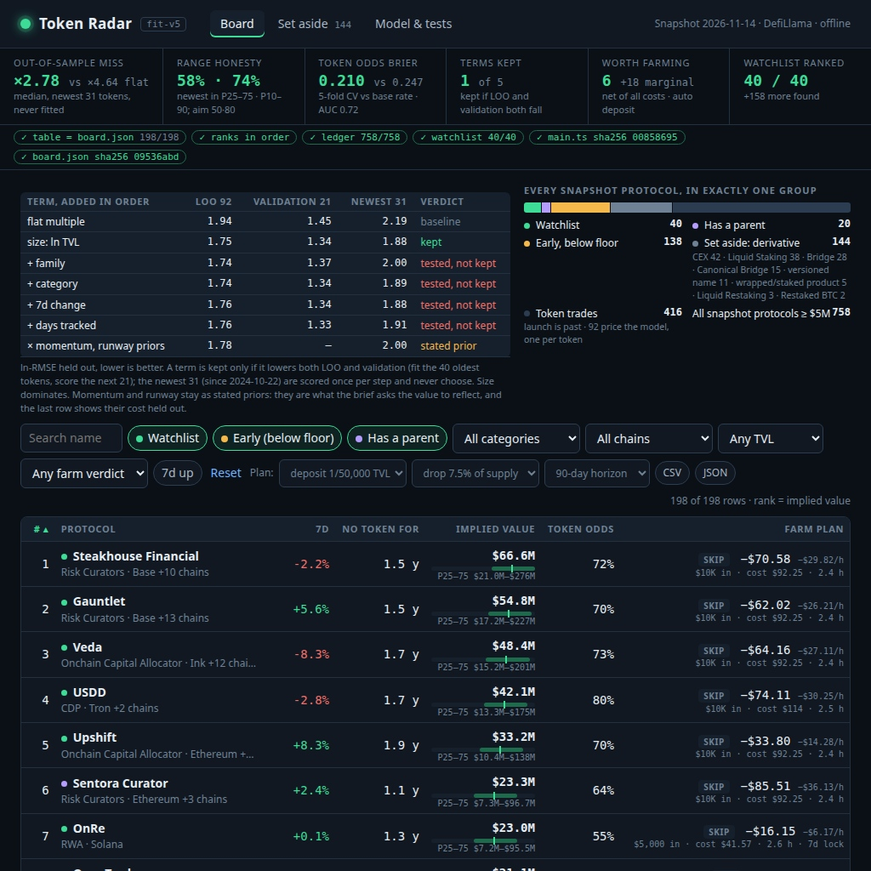
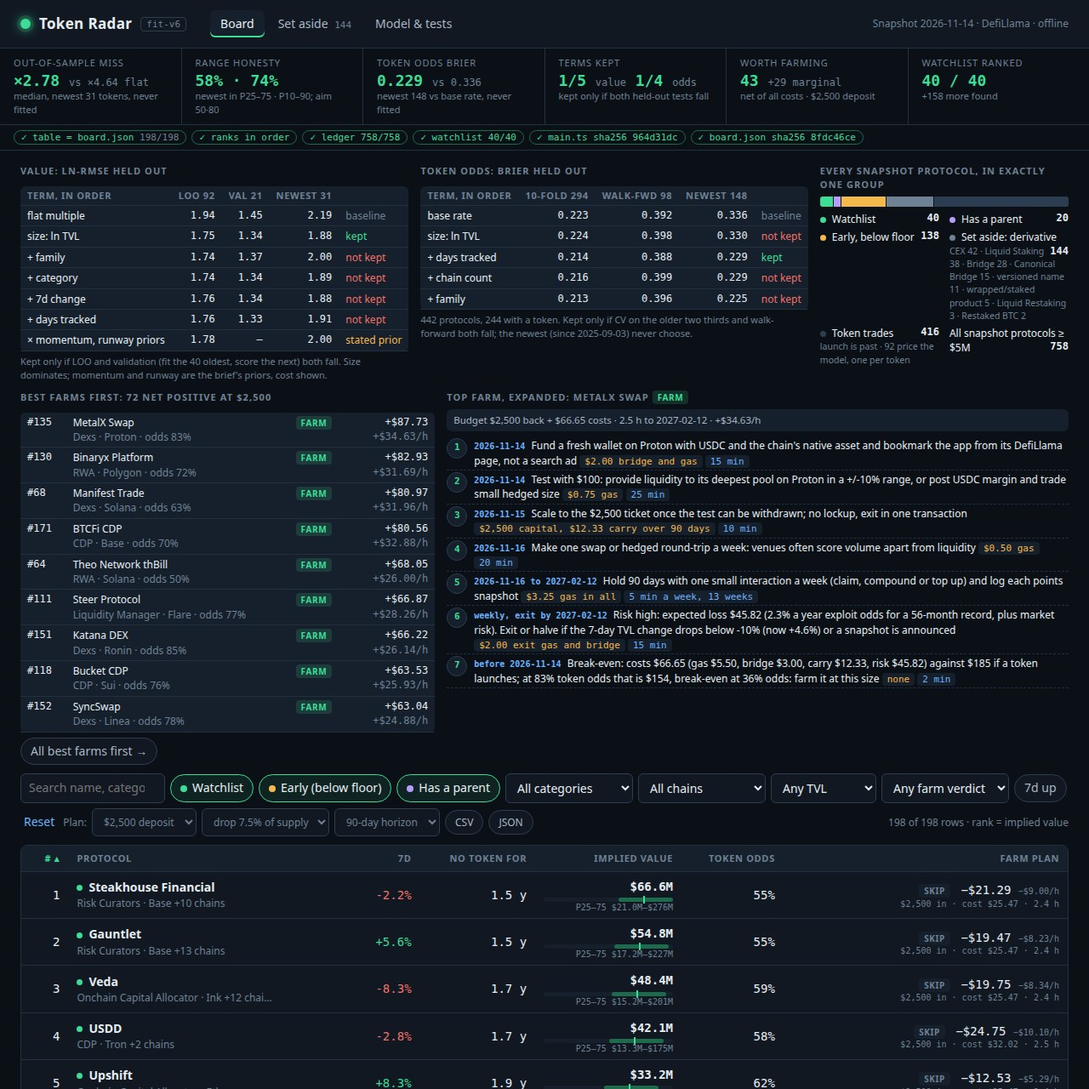
fit-v6: token odds chosen term by term (10-fold + walk-forward Brier), $2,500 default deposit, best farms and an expanded plan on the cover

diff --git a/dashboard/app.js b/dashboard/app.js
@@ -1,7 +1,5 @@
-// Token Radar page: renders window.RADAR (written by main.ts from engine.js) as three views, the board
-// with its cover, filters, plan controls and a detail panel, the set-aside list, and the model with its
-// held-out tests. It re-runs RadarEngine.build on window.SNAPSHOT here and reports whether rows match.
-// State lives in the hash (#/board?v=farm&sel=slug) so every view can be linked and captured.
+// Token Radar page: renders window.RADAR (main.ts ran engine.js) as the board with cover, filters, plan and
+// detail, the set-aside list and the model; re-runs engine.js here to check rows. State lives in the hash.
 (function () {
   'use strict';
   var R = window.RADAR, app = document.getElementById('app');
@@ -59,9 +57,9 @@
     var k = [
       ['Out-of-sample miss', '×' + m.test.median_x.toFixed(2) + ' <small>vs ×' + fl.test.median_x.toFixed(2) + ' flat</small>', 'median, newest ' + T.split.test + ' tokens, never fitted', 1],
       ['Range honesty', Math.round(cv.p25_p75 * 100) + '% · ' + Math.round(cv.p10_p90 * 100) + '%', 'newest in P25–75 · P10–90; aim 50·80', Math.abs(cv.p25_p75 - 0.5) < 0.15 && Math.abs(cv.p10_p90 - 0.8) < 0.1],
-      ['Token odds Brier', O.brier.toFixed(3) + ' <small>vs ' + O.base_brier.toFixed(3) + '</small>', O.folds + '-fold CV vs base rate · AUC ' + O.auc.toFixed(2), O.brier < O.base_brier],
-      ['Terms kept', T.kept + ' <small>of ' + T.tried + '</small>', 'kept if LOO and validation both fall', 1],
-      ['Worth farming', n.farm + ' <small>+' + n.marginal + ' marginal</small>', 'net of all costs · ' + (st.dep ? money(st.dep) : 'auto') + ' deposit', n.farm > 0],
+      ['Token odds Brier', O.shipped.test.toFixed(3) + ' <small>vs ' + O.steps[0].test.toFixed(3) + '</small>', 'newest ' + O.split.test + ' vs base rate, never fitted', O.shipped.test < O.steps[0].test],
+      ['Terms kept', T.kept + '/' + T.tried + ' <small>value</small> ' + O.kept.length + '/' + (O.steps.length - 1) + ' <small>odds</small>', 'kept only if both held-out tests fall', 1],
+      ['Worth farming', n.farm + ' <small>+' + n.marginal + ' marginal</small>', 'net of all costs · ' + money(R.rows[0].plan.ticket) + ' deposit', n.farm > 0],
       ['Watchlist ranked', C.watch_covered + ' / ' + C.watch, '+' + (C.board - C.watch_covered) + ' more found', C.watch_covered === C.watch],
     ];
     var ch = [['table = board.json', check ? check.ok + '/' + C.board : '…', check && check.ok === C.board],
@@ -78,19 +76,33 @@
     return [['Watchlist', c('watch'), 'var(--sig)'], ['Has a parent', c('parented'), 'var(--violet)'], ['Early, below floor', c('early'), 'var(--amber)'],
       ['Set aside: derivative', C.set_aside, 'var(--ink-3)'], ['Token trades', C.live, 'var(--line-2)']];
   }
-  function steps() {
-    var f = function (s) { return s ? s.rmse.toFixed(2) : '–'; }, V = { baseline: 'baseline', stated: 'stated prior', true: 'kept', false: 'tested, not kept' };
-    return '<table class="mini st"><thead><tr><th>Term, added in order</th><th class="r">LOO ' + C.comps + '</th><th class="r">Validation ' + T.split.val + '</th><th class="r">Newest ' + T.split.test + '</th><th>Verdict</th></tr></thead><tbody>' +
-      T.steps.map(function (s) { return '<tr><td>' + esc(s.term) + '</td><td class="r num">' + f(s.loo) + '</td><td class="r num">' + f(s.val) + '</td><td class="r num">' + f(s.test) + '</td><td class="k-' + s.kept + '">' + V[s.kept] + '</td></tr>'; }).join('') +
-      '</tbody></table><p class="note">ln-RMSE held out, lower is better. A term is kept only if it lowers both LOO and validation (fit the ' + T.split.fit + ' oldest tokens, score the next ' + T.split.val + '); the newest ' + T.split.test + ' (since ' + T.split.test_from + ') are scored once per step and never choose. Size dominates. Momentum and runway stay as stated priors: they are what the brief asks the value to reflect, and the last row shows their cost held out.</p>';
+  function steps(S, k, h, dp) {
+    var V = { baseline: 'baseline', stated: 'stated prior', true: 'kept', false: 'not kept' }, f = function (v) { return v == null ? '–' : (v.rmse || v).toFixed(dp); };
+    return '<table class="mini st"><thead><tr><th>Term, in order</th>' + h.map(function (x) { return '<th class="r">' + x + '</th>'; }).join('') + '<th></th></tr></thead><tbody>' +
+      S.map(function (s) { return '<tr><td>' + esc(s.term) + '</td>' + k.map(function (x) { return '<td class="r num">' + f(s[x]) + '</td>'; }).join('') + '<td class="k-' + s.kept + '">' + V[s.kept] + '</td></tr>'; }).join('') + '</tbody></table>';
+  }
+  function tests() {
+    return '<div><h3>Value: ln-RMSE held out</h3>' + steps(T.steps, ['loo', 'val', 'test'], ['LOO ' + C.comps, 'Val ' + T.split.val, 'Newest ' + T.split.test], 2) +
+      '<p class="note">Kept only if LOO and validation (fit the ' + T.split.fit + ' oldest, score the next) both fall. Size dominates; momentum and runway are the brief\'s priors, cost shown.</p></div>' +
+      '<div><h3>Token odds: Brier held out</h3>' + steps(O.steps, ['cv', 'val', 'test'], [O.folds + '-fold ' + O.split.train, 'Walk-fwd ' + O.split.val, 'Newest ' + O.split.test], 3) +
+      '<p class="note">' + O.n + ' protocols, ' + O.with_token + ' with a token. Kept only if CV on the older two thirds and walk-forward both fall; the newest (since ' + O.split.test_from + ') never choose.</p></div>';
+  }
+  function best() { return R.rows.filter(function (r) { return r.plan.net > 0; }).sort(function (a, b) { return b.plan.net - a.plan.net; }); }
+  function plan(r) {
+    var p = r.plan;
+    return '<div class="budget">Budget ' + money(p.ticket) + ' back + ' + money(p.costs.total) + ' costs · ' + p.hours.toFixed(1) + ' h to ' + p.end + ' · ' + signed(p.net / p.hours) + '/h</div>' +
+      '<ol class="steps">' + p.steps.map(function (s) { return '<li><div><b class="when">' + esc(s.when) + '</b> ' + esc(s.do) + ' <span class="tag c">' + esc(s.cost) + '</span> <span class="tag t">' + esc(s.time) + '</span></div></li>'; }).join('') + '</ol>';
   }
   function cover() {
     var L = ledger(), tot = C.protocols, why = {};
     R.set_aside.forEach(function (r) { var k = r.reason.replace(/^category /, ''); why[k] = (why[k] || 0) + 1; });
-    return '<div class="cover"><div>' + steps() + '</div><div><h3>Every snapshot protocol, in exactly one group</h3><div class="led">' +
+    var B = best(), t = B[0];
+    return '<div class="cover">' + tests() + '<div><h3>Every snapshot protocol, in exactly one group</h3><div class="led">' +
       L.map(function (g) { return '<span style="flex:' + g[1] + ';background:' + g[2] + '"></span>'; }).join('') + '</div><div class="lg">' +
       L.map(function (g, i) { return '<div><i class="cd" style="background:' + g[2] + '"></i>' + g[0] + ' <b>' + g[1] + '</b>' + (i === 3 ? '<div class="sub">' + Object.keys(why).sort(function (a, b) { return why[b] - why[a]; }).map(function (k) { return esc(k) + ' ' + why[k]; }).join(' · ') + '</div>' : i === 4 ? '<div class="sub">launch is past · ' + C.comps + ' price the model, one per token</div>' : '') + '</div>'; }).join('') +
-      '<div>All snapshot protocols ≥ $5M <b>' + tot + '</b></div></div></div></div>';
+      '<div>All snapshot protocols ≥ $5M <b>' + tot + '</b></div></div></div></div><div class="cover c2"><div><h3>Best farms first: ' + B.length + ' net positive at ' + money(t.plan.ticket) + '</h3><table class="mini bf"><tbody>' +
+      B.slice(0, 9).map(function (r) { return '<tr data-slug="' + esc(r.slug) + '"><td class="num">#' + r.rank + '</td><td>' + esc(r.name) + '<div class="sub">' + esc(r.category) + ' · ' + esc(r.plan.chain) + ' · odds ' + odds(r.token_odds) + '</div></td><td>' + vchip(r) + '</td><td class="r num">' + signed(r.plan.net) + '<div class="sub">' + signed(r.plan.net / r.plan.hours) + '/h</div></td></tr>'; }).join('') +
+      '</tbody></table><button class="chip" id="best">All best farms first →</button></div><div><h3>Top farm, expanded: ' + esc(t.name) + ' ' + vchip(t) + '</h3>' + plan(t) + '</div></div>';
   }
 
   // ---- board
@@ -129,7 +141,7 @@
       select('min', [[0, 'Any TVL'], [1e7, 'TVL ≥ $10M'], [5e7, 'TVL ≥ $50M'], [2e8, 'TVL ≥ $200M']], st.min) +
       select('v', [['', 'Any farm verdict'], ['ok', 'Farm or marginal'], ['farm', 'Farm only']], st.v) +
       '<button class="chip" id="grow" aria-pressed="' + st.grow + '">7d up</button><button class="reset" id="reset">Reset</button>' +
-      '<span class="ctl">Plan: ' + select('dep', [[0, 'deposit 1/50,000 TVL'], [1000, '$1,000 deposit'], [5000, '$5,000 deposit'], [25000, '$25,000 deposit']], st.dep) +
+      '<span class="ctl">Plan: ' + select('dep', [[0, '$2,500 deposit'], [1000, '$1,000'], [10000, '$10,000'], [25000, '$25,000']], st.dep) +
       select('sh', [[0, 'drop 7.5% of supply'], [0.03, 'drop 3%'], [0.15, 'drop 15%']], st.sh) + select('hz', [[0, '90-day horizon'], [30, '30 days'], [180, '180 days']], st.hz) +
       '<button class="chip" id="csv">CSV</button><button class="chip" id="json">JSON</button></span><span class="count">' + rows.length + ' of ' + R.rows.length + ' rows · rank = implied value</span></div>';
     var head = '<tr>' + COLS.map(function (c) { return '<th data-k="' + c[0] + '" class="' + (c[2] || '') + (st.sort === c[0] ? ' on' + (st.asc ? ' asc' : '') : '') + '">' + c[1] + '</th>'; }).join('') + '</tr>';
@@ -178,9 +190,8 @@
       '<div><div class="l">Token odds</div><div class="v2">' + odds(r.token_odds) + '</div><div class="sub">expected ' + money(r.expected_value_usd) + '</div></div></div>' +
       '<div class="facts">' + fact('TVL', money(r.tvl_usd)) + fact('7-day change', pct(r.change_7d)) + fact('Tokenless for', days(r.tokenless_days)) + '</div>' +
       '<h3>How the value is built</h3>' + waterfall(r) +
-      '<h3>Farm plan · ' + money(p.ticket) + ' ticket · ' + vchip(r) + '</h3>' + costs(r) + '<div class="budget">Budget ' + money(p.ticket) + ' back + ' + money(p.costs.total) + ' costs · ' + p.hours.toFixed(1) + ' h to ' + p.end + ' · ' + signed(p.net / p.hours) + '/h</div>' +
-      '<ol class="steps">' + p.steps.map(function (s) { return '<li><div><b class="when">' + esc(s.when) + '</b> ' + esc(s.do) + ' <span class="tag c">' + esc(s.cost) + '</span> <span class="tag t">' + esc(s.time) + '</span></div></li>'; }).join('') + '</ol>' +
-      '<div class="note">Core value ' + money(r.core_value_usd) + ' is the size fit on ' + C.comps + ' trading tokens; momentum and runway are stated priors. DefiLlama records no token for ' + esc(r.name) + ', which is not proof it has none; the value is this model\'s claim, not a forecast of a launch.</div></aside>';
+      '<h3>Farm plan · ' + money(p.ticket) + ' ticket · ' + vchip(r) + '</h3>' + costs(r) + plan(r) +
+      '<div class="note">Core value ' + money(r.core_value_usd) + ' is the fit on ' + C.comps + ' trading tokens; momentum and runway are stated priors. No token on DefiLlama is not proof of none; the value is a claim, not a launch forecast.</div></aside>';
   }
 
   function wireBoard() {
@@ -192,19 +203,21 @@
     ['cat', 'chain', 'min', 'v', 'dep', 'sh', 'hz'].forEach(function (id) { document.getElementById(id).onchange = function (e) { var v = e.target.value; st[id] = /min|dep|sh|hz/.test(id) ? +v : v; go(); }; });
     document.getElementById('csv').onclick = function () { save('csv'); };
     document.getElementById('json').onclick = function () { save('json'); };
+    var b = document.getElementById('best');
+    if (b) b.onclick = function () { st.sort = 'net'; st.asc = false; st.v = 'ok'; go(); };
     document.getElementById('grow').onclick = function () { st.grow = !st.grow; go(); };
     document.getElementById('reset').onclick = function () { location.hash = '#/board'; };
     app.querySelectorAll('th[data-k]').forEach(function (th) {
       th.onclick = function () { var k = th.getAttribute('data-k'); if (st.sort === k) st.asc = !st.asc; else { st.sort = k; st.asc = k === 'rank' || k === 'name'; } go(); };
     });
-    app.querySelectorAll('tbody tr[data-slug]').forEach(function (tr) { tr.onclick = function () { var s = tr.getAttribute('data-slug'); st.sel = st.sel === s ? '' : s; go(); }; });
+    app.querySelectorAll('tr[data-slug]').forEach(function (tr) { tr.onclick = function () { var s = tr.getAttribute('data-slug'); st.sel = st.sel === s ? '' : s; go(); }; });
     var c = document.getElementById('close');
     if (c) c.onclick = function () { st.sel = ''; go(); };
   }
 
   // ---- set aside
   function aside() {
-    app.innerHTML = '<div class="prose"><p>These ' + C.set_aside + ' protocols record no token on DefiLlama but fail the watchlist\'s own rule: a CEX\'s reserve wallets, a staking or bridged wrapper, or a versioned product. Their value already trades as another token, so they stay off the ranked board; the reference value applies a class factor of ' + R.constants.DERIVATIVE + '.</p></div>' +
+    app.innerHTML = '<div class="prose"><p>These ' + C.set_aside + ' tokenless protocols fail the watchlist\'s own rule (CEX wallets, wrappers, versioned products): their value trades as another token. Reference value uses class factor ' + R.constants.DERIVATIVE + '.</p></div>' +
       '<div class="tbl"><div class="scroll"><table><thead><tr><th>Protocol</th><th>Category</th><th>Why set aside</th><th class="r">TVL</th><th class="r">7d</th><th class="r">Reference value</th></tr></thead><tbody>' +
       R.set_aside.map(function (r) { return '<tr><td class="nm">' + esc(r.name) + '</td><td class="sub">' + esc(r.category || '–') + '</td><td>' + esc(r.reason) + '</td><td class="r num">' + money(r.tvl_usd) + '</td><td class="r num">' + pct(r.change_7d) + '</td><td class="r num sub">' + money(r.implied_value_usd) + '</td></tr>'; }).join('') +
       '</tbody></table></div></div>';
@@ -212,17 +225,15 @@
 
   // ---- model and its tests
   function model() {
-    var K = R.constants, F = R.fit, H = '<tr><th></th><th class="r">ln-RMSE</th><th class="r">Median miss</th><th class="r">Within 3×</th><th class="r">Rank corr</th></tr>';
-    app.innerHTML = '<div class="prose"><p>What would each protocol\'s token be worth if its record stayed as the snapshot shows it, and how likely is a token at all? Both answers are fitted on the snapshot\'s own protocols in <code>engine.js</code> and scored on data the fit did not see. No protocol is named in the code.</p>' +
+    var K = R.constants, F = R.fit;
+    app.innerHTML = '<div class="prose"><p>What would each token be worth, and how likely is one? Both are fitted in <code>engine.js</code> on the snapshot and scored on data the fit did not see.</p>' +
       '<div class="formula">implied = core × momentum × runway × class<br>core: ln mcap = ' + F.a.toFixed(2) + ' + ' + F.b.toFixed(3) + ' × (ln TVL − ln ' + money(F.centre_tvl) + ')' + (F.terms.length ? ' + ' + F.terms.join(' + ') : '') + ', fitted on ' + C.comps + ' trading tokens<br>' +
       'value bands: the leave-one-out misses, P10 ' + x3(F.band[0]) + ' · P25 ' + x3(F.band[1]) + ' · P75 ' + x3(F.band[2]) + ' · P90 ' + x3(F.band[3]) + '<br>' +
       'momentum = 1 + clamp(7d, ' + K.GROWTH_FLOOR + '%, +' + K.GROWTH_CAP + '%) · runway = ' + K.RUNWAY_FLOOR + ' + ' + K.RUNWAY_RANGE + '(1 − e^(−days/' + K.RUNWAY_TAU + ')), unknown age ' + F.unknown_age_days + ' d<br>' +
       'class = 1 watchlist or early · ' + K.PARENTED + ' parented · ' + K.DERIVATIVE + ' derivative (set aside)<br>' +
-      'token odds = logistic(ln TVL, ln(1 + years tracked), ln chains, family), ridge ' + K.ODDS_LAMBDA + ', fitted on ' + O.n + ' protocols (' + O.with_token + ' carry a token)<br>' +
+      'token odds = logistic(' + (O.kept.join(', ') || 'base rate') + '), ridge ' + K.ODDS_LAMBDA + ', fitted on ' + O.n + ' protocols (' + O.with_token + ' carry a token)<br>' +
       'drop on a ticket = implied / ' + K.LAUNCH_FLOAT + ' float × ' + K.AIRDROP_SHARE + ' to farmers × ' + K.FARM_DAYS + '/' + K.SEASON_DAYS + ' days × ticket / TVL</div></div>' +
-      '<div class="cols"><div><h3>Value model, term by term</h3>' + steps() +
-      '</div><div><h3>Token odds, ' + O.folds + '-fold cross-validated</h3><table class="mini"><tbody><tr><td>AUC (0.5 is a coin)</td><td class="r num">' + O.auc.toFixed(3) + '</td></tr><tr><td>Log-loss, model vs base rate ' + odds(O.base_rate) + '</td><td class="r num">' + O.log_loss.toFixed(3) + ' vs ' + O.base_log_loss.toFixed(3) + '</td></tr><tr><td>Brier, model vs base rate</td><td class="r num">' + O.brier.toFixed(3) + ' vs ' + O.base_brier.toFixed(3) + '</td></tr></tbody></table></div>' +
-      '</div>';
+      '<div class="cols">' + tests() + '</div>';
   }
 
   // ---- router and the in-browser recompute

diff --git a/dashboard/engine.js b/dashboard/engine.js
@@ -1,27 +1,25 @@
-// engine.js: the whole radar, snapshot in, ranked board out. main.ts runs this file to write board.json
-// and data.js; the page loads it again and re-derives every row from the snapshot that data.js carries,
-// so the screenshots show what this code computes. Plain script, no imports, no network, no names.
+// engine.js: the whole radar, snapshot in, ranked board out. main.ts runs it to write board.json; the page
+// runs it again on the same snapshot, so the screenshots show what this code computes. No imports, no network.
 //
 //   implied value  = fitted core value x momentum x runway x class                (value if it launches)
 //   core value     = exp(a + b ln TVL + any term that survived both tests)       ridge on trading tokens
-//   token odds     = logistic(size, age, chains, family)            share of look-alikes carrying a token
+//   token odds     = logistic(terms that survived both tests)        share of look-alikes carrying a token
 //   expected value = token odds x implied value
 //
-// Terms are tried one at a time after size (family, category, 7d change, days tracked) and kept only if
-// they lower the miss both in exact leave-one-out and on a validation fold (fit the oldest tokens, score
-// the next). The newest third is a test: scored for every step, never used to choose.
+// Each model's terms are tried in order and kept only if both held-out tests improve; the newest third
+// is scored at every step and never chooses.
 (function (root) {
   'use strict';
 
   var K = {
-    MODEL: 'fit-v5',
+    MODEL: 'fit-v6',
     LAMBDAS: [1, 3, 10, 30], // ridge penalties tried for a term, chosen by leave-one-out
     RATIO_MIN: 0.01, RATIO_MAX: 25, // a comp's mcap/TVL is clamped here before the log (leverage cap)
     GROWTH_FLOOR: -50, GROWTH_CAP: 60, // momentum prior: (1 + clamped 7d change)^1
     RUNWAY_FLOOR: 0.6, RUNWAY_RANGE: 0.4, RUNWAY_TAU: 365, // runway prior: floor + range (1 - e^-days/tau)
     PARENTED: 0.35, DERIVATIVE: 0.12, // class factors (derivatives are set aside off the board)
-    ODDS_LAMBDA: 1, FOLDS: 5, // logistic ridge penalty and cross-validation folds for token odds
-    TICKET: 0, // deposit; 0 sizes it at 1/50,000 of TVL, $250 to $10K
+    ODDS_LAMBDA: 1, FOLDS: 10, // logistic ridge penalty and cross-validation folds for token odds
+    TICKET: 2500, // deposit: a retail ticket; carry and risk scale with it, so it moves a verdict only via fixed gas
     AIRDROP_SHARE: 0.075, SEASON_DAYS: 180, FARM_DAYS: 90, // farmer share of supply; the reader farms 90 of 180 days
     LAUNCH_FLOAT: 0.3, // circulating share at launch: comps price the float, a drop is a share of the full supply
     LOSS_GIVEN_EXPLOIT: 0.6,
@@ -188,40 +186,43 @@
   function momentum(g) { return 1 + clamp(g === null || g === undefined ? 0 : g, K.GROWTH_FLOOR, K.GROWTH_CAP) / 100; }
   function runway(age) { return K.RUNWAY_FLOOR + K.RUNWAY_RANGE * (1 - Math.exp(-age / K.RUNWAY_TAU)); }
 
-  // ---- token odds: a logistic fit of "carries a token" on the protocol's profile
-  function oddsModel(s, unknownAge) {
+  // ---- token odds: a logistic fit of "carries a token" on the protocol's profile. Terms are tried in order
+  // after the base rate and kept only if they lower the Brier score both in ten-fold CV on the older two
+  // thirds and on a walk-forward fold (fit its oldest part, score the next). The newest third never chooses.
+  var OTERMS = [['size: ln TVL', function (p, c) { return [Math.log(p.tvl_usd) - c]; }],
+    ['days tracked', function (p, c, ua, s) { var a = ageDays(s.as_of, p.listed_at); return [Math.log1p((a === null ? ua : a) / 365)]; }],
+    ['chain count', function (p) { return [Math.log(Math.max(1, p.chains.length))]; }],
+    ['family', function (p) { var f = family(p.category); return FAMS.map(function (x) { return +(x === f); }); }]];
+  function oddsModel(s, ua) {
     var pop = s.protocols.filter(function (p) { return !ruleFailure(p) && p.tvl_usd > 0; });
-    var centre = pop.reduce(function (a, p) { return a + Math.log(p.tvl_usd); }, 0) / pop.length;
-    function row(p) {
-      var a = ageDays(s.as_of, p.listed_at), f = family(p.category);
-      return [1, Math.log(p.tvl_usd) - centre, Math.log1p((a === null ? unknownAge : a) / 365), Math.log(Math.max(1, p.chains.length))].concat(FAMS.map(function (x) { return x === f ? 1 : 0; }));
-    }
-    function fit(rows) { // Newton-Raphson on the penalised log-likelihood, a fixed 12 steps (converged well before)
-      var d = rows[0].x.length, w = new Array(d).fill(0);
+    var c = pop.reduce(function (a, p) { return a + Math.log(p.tvl_usd); }, 0) / pop.length, y = function (p) { return hasToken(p) ? 1 : 0; };
+    function fit(ps, terms) { // Newton-Raphson on the penalised log-likelihood, a fixed 12 steps (converged well before)
+      var row = function (p) { var x = [1]; terms.forEach(function (t) { x = x.concat(OTERMS[t][1](p, c, ua, s)); }); return x; };
+      var X = ps.map(row), d = X[0].length, w = new Array(d).fill(0);
       for (var it = 0; it < 12; it++) {
         var H = [], g = new Array(d).fill(0), j, k;
         for (j = 0; j < d; j++) { H.push(new Array(d).fill(0)); H[j][j] = j ? K.ODDS_LAMBDA : 1e-6; g[j] = j ? -K.ODDS_LAMBDA * w[j] : 0; }
-        rows.forEach(function (r) { var q = 1 / (1 + Math.exp(-dot(w, r.x))); for (j = 0; j < d; j++) { g[j] += (r.y - q) * r.x[j]; for (k = 0; k < d; k++) H[j][k] += q * (1 - q) * r.x[j] * r.x[k]; } });
+        X.forEach(function (x, i) { var q = 1 / (1 + Math.exp(-dot(w, x))), e = y(ps[i]) - q; for (j = 0; j < d; j++) { g[j] += e * x[j]; for (k = 0; k < d; k++) H[j][k] += q * (1 - q) * x[j] * x[k]; } });
         var Hi = inverse(H);
-        w = w.map(function (v, j2) { return v + dot(Hi[j2], g); });
+        w = w.map(function (v, i) { return v + dot(Hi[i], g); });
       }
-      return function (x) { return 1 / (1 + Math.exp(-dot(w, x))); };
+      return function (p) { return 1 / (1 + Math.exp(-dot(w, row(p)))); };
     }
-    var rows = pop.map(function (p, i) { return { x: row(p), y: hasToken(p) ? 1 : 0, fold: i % K.FOLDS }; });
-    var cv = [];
-    for (var f = 0; f < K.FOLDS; f++) {
-      var m = fit(rows.filter(function (r) { return r.fold !== f; }));
-      rows.forEach(function (r) { if (r.fold === f) cv.push([m(r.x), r.y]); });
+    var se = function (m, p) { var e = m(p) - y(p); return e * e; }, brier = function (m, ps) { return r4(ps.reduce(function (a, p) { return a + se(m, p); }, 0) / ps.length); };
+    var tt = byDate(pop), tr = tt[0], fv = byDate(tr);
+    function scores(terms) {
+      var e = 0, f;
+      for (f = 0; f < K.FOLDS; f++) { var m = fit(tr.filter(function (p, i) { return i % K.FOLDS !== f; }), terms); tr.forEach(function (p, i) { if (i % K.FOLDS === f) e += se(m, p); }); }
+      return { cv: r4(e / tr.length), val: brier(fit(fv[0], terms), fv[1]), test: brier(fit(tr, terms), tt[1]) };
     }
-    var base = rows.filter(function (r) { return r.y; }).length / rows.length;
-    var ll = function (q, y) { q = clamp(q, 1e-6, 1 - 1e-6); return -(y * Math.log(q) + (1 - y) * Math.log(1 - q)); };
-    var pos = cv.filter(function (c) { return c[1]; }), neg = cv.filter(function (c) { return !c[1]; }), wins = 0;
-    pos.forEach(function (a) { neg.forEach(function (b) { wins += a[0] > b[0] ? 1 : a[0] === b[0] ? 0.5 : 0; }); });
-    var br = function (q) { return r4(cv.reduce(function (a, c) { var e = (q === null ? c[0] : q) - c[1]; return a + e * e; }, 0) / cv.length); };
-    var full = fit(rows);
-    return { predict: function (p) { return full(row(p)); },
-      test: { n: rows.length, with_token: Math.round(base * rows.length), base_rate: r4(base), folds: K.FOLDS, auc: r4(wins / Math.max(1, pos.length * neg.length)),
-        log_loss: r4(cv.reduce(function (a, c) { return a + ll(c[0], c[1]); }, 0) / cv.length), base_log_loss: r4(cv.reduce(function (a, c) { return a + ll(base, c[1]); }, 0) / cv.length), brier: br(null), base_brier: br(base) } };
+    var cur = scores([]), kept = [], steps = [Object.assign({ term: 'base rate', kept: 'baseline' }, cur)];
+    OTERMS.forEach(function (t, i) {
+      var x = scores(kept.concat(i)), k = x.cv < cur.cv && x.val < cur.val;
+      steps.push(Object.assign({ term: (i ? '+ ' : '') + t[0], kept: k }, x));
+      if (k) { kept.push(i); cur = x; }
+    });
+    return { predict: fit(pop, kept), test: { n: pop.length, with_token: pop.filter(y).length, folds: K.FOLDS, steps: steps, kept: kept.map(function (i) { return OTERMS[i][0]; }),
+      shipped: cur, split: { train: tr.length, val: fv[1].length, test: tt[1].length, test_from: tt[1][0].listed_at } } };
   }
 
   // ---- valuation
@@ -255,13 +256,12 @@
     Other: ['USDC', 'deposit into its main product on %c and confirm the position shows in its dashboard', 'Repeat one small interaction a week so the address shows sustained use', 2, 20, 0, 0.02, 0.003],
   };
   function money(x) { var a = Math.abs(x), s = a >= 100 ? String(Math.round(a)).replace(/\B(?=(\d{3})+(?!\d))/g, ',') : a.toFixed(2); return (x < 0 ? '-$' : '$') + s; }
-  function nice(x) { var e = Math.pow(10, Math.floor(Math.log10(x))), m = x / e; return (m < 1.5 ? 1 : m < 3.5 ? 2.5 : m < 7.5 ? 5 : 10) * e; }
   function pct(x) { return (x * 100).toFixed(x < 0.1 ? 1 : 0) + '%'; }
 
   function farmPlan(p, v, odds, asOf) {
     var fam = family(p.category), a = ACT[fam] || ACT.Other, chain = p.chains[0] || 'Ethereum', gas = GAS[chain] === undefined ? 0.25 : GAS[chain];
     p.chains.forEach(function (c) { var g = GAS[c] === undefined ? 0.25 : GAS[c]; if (g < gas) { gas = g; chain = c; } });
-    var ticket = K.TICKET || Math.min(10000, Math.max(250, nice(p.tvl_usd / 50000))), weeks = Math.round(K.FARM_DAYS / 7), yr = K.FARM_DAYS / 365;
+    var ticket = K.TICKET, weeks = Math.round(K.FARM_DAYS / 7), yr = K.FARM_DAYS / 365;
     var bridge = chain === 'Ethereum' ? 0 : chain === 'Bitcoin' ? 5 : 1.5;
     var gasUsd = gas * (2 + a[3] + 2 + weeks + 2), carry = ticket * a[6] * yr;
     var age = v.age === null ? 700 : v.age, pExploit = (age < 365 ? 0.06 : age < 1095 ? 0.03 : 0.015) * (p.tvl_usd < 2e7 ? 1.5 : 1);
@@ -276,7 +276,7 @@
     var steps = [
       ['Fund a fresh wallet on ' + chain + (p.chains.length > 1 ? ' (cheapest of its ' + p.chains.length + ' chains)' : '') + ' with ' + a[0] + ' and bookmark the app from its DefiLlama page, not a search ad', money(bridge + gas * 2) + ' bridge and gas', '15 min'],
       ['Test with $100: ' + a[1].replace(/%c/g, chain), money(gas * a[3]) + ' gas', a[4] + ' min'],
-      ['Scale to the ' + money(ticket) + ' ticket once the test can be withdrawn' + (K.TICKET ? '' : ' (about 1/50,000 of its TVL)') + '; ' + lock, money(ticket) + ' capital, ' + money(carry) + ' carry over ' + K.FARM_DAYS + ' days', '10 min'],
+      ['Scale to the ' + money(ticket) + ' ticket once the test can be withdrawn; ' + lock, money(ticket) + ' capital, ' + money(carry) + ' carry over ' + K.FARM_DAYS + ' days', '10 min'],
       [a[2].replace(/%c/g, chain), money(gas * 2) + ' gas', '20 min'],
       ['Hold ' + K.FARM_DAYS + ' days with one small interaction a week (claim, compound or top up) and log each points snapshot', money(gas * weeks) + ' gas in all', '5 min a week, ' + weeks + ' weeks'],
       ['Risk ' + level + ': expected loss ' + money(riskUsd) + ' (' + pct(pExploit) + ' a year exploit odds for a ' + Math.round(age / 30) + '-month record, plus market risk). Exit or halve if the ' + trig + ' or a snapshot is announced', money(gas * 2 + bridge) + ' exit gas and bridge', '15 min'],

diff --git a/dashboard/app.css b/dashboard/app.css
@@ -1,22 +1,4 @@
-:root {
---bg:#0b1016;
---panel:#111822;
---panel-2:#16202c;
---line:#223040;
---line-2:#2c3d51;
---ink:#e6edf3;
---ink-2:#a9b6c4;
---ink-3:#6f8194;
---sig:#3ddc97;
---sig-dim:#1d6b4c;
---amber:#f5b84b;
---red:#f0706a;
---blue:#6cb2ff;
---violet:#b59cff;
---mono:ui-monospace,"SF Mono","JetBrains Mono",Menlo,Consolas,monospace;
---sans:Inter,"Segoe UI",system-ui,-apple-system,Roboto,sans-serif;
---r:8px;
-}
+:root {--bg:#0b1016;--panel:#111822;--panel-2:#16202c;--line:#223040;--line-2:#2c3d51;--ink:#e6edf3;--ink-2:#a9b6c4;--ink-3:#6f8194;--sig:#3ddc97;--sig-dim:#1d6b4c;--amber:#f5b84b;--red:#f0706a;--blue:#6cb2ff;--violet:#b59cff;--mono:ui-monospace,"SF Mono","JetBrains Mono",Menlo,Consolas,monospace;--sans:Inter,"Segoe UI",system-ui,-apple-system,Roboto,sans-serif;--r:8px;}
 *{box-sizing:border-box}
 html,body{margin:0;background:var(--bg);color:var(--ink);font:14px/1.45 var(--sans)}
 a{color:inherit}
@@ -72,7 +54,6 @@ tbody tr.sel{background:rgba(61,220,151,.09);box-shadow:inset 3px 0 0 var(--sig)
 .bar{min-width:130px}
 .bar b{display:block;font-weight:600}
 .bar em{display:block;font:10px var(--mono);color:var(--ink-3);font-style:normal}
-.bar span{display:block;height:3px;margin:3px 0 0 auto;border-radius:2px;background:linear-gradient(270deg,var(--sig),var(--sig-dim))}
 .has-sel .x2{display:none}
 .badge{display:inline-block;font-size:11px;padding:1px 7px;border-radius:4px;border:1px solid}
 .b-watch{color:var(--sig);border-color:var(--sig-dim)}
@@ -128,11 +109,11 @@ code{font:12px var(--mono);background:var(--panel-2);padding:1px 5px;border-radi
 .empty{padding:40px;text-align:center;color:var(--ink-3)}
 @media (max-width:1300px) {
 .split{grid-template-columns:minmax(0,1fr) 450px}
-.has-sel .x3{display:none}
+.has-sel .x3,.x2{display:none}
 }
 @media (max-width:1100px) {
+th,td{padding:6px 7px}
 .split{grid-template-columns:1fr}
-.x2{display:none}
 .filters input[type=search]{width:120px}
 .chip{padding:4px 9px}
 .cols{grid-template-columns:1fr}
@@ -142,7 +123,7 @@ code{font:12px var(--mono);background:var(--panel-2);padding:1px 5px;border-radi
 .chips span{border:1px solid var(--line-2);border-radius:10px;padding:1px 8px}
 .chips .ok{color:var(--sig);border-color:var(--sig-dim)}
 .chips i{font-style:normal;color:var(--ink-3)}
-.cover{display:grid;grid-template-columns:3fr 2fr;gap:16px;margin-bottom:10px}
+.cover{display:grid;grid-template-columns:5fr 5fr 4fr;gap:14px;margin-bottom:10px}.c2{grid-template-columns:2fr 3fr}.bf{width:100%}.bf tr{cursor:pointer}.bf td{vertical-align:top}.c2 ol.steps li{font-size:12px;padding:2px 0}.c2 .chip{margin-top:6px}
 .cover h3{margin:0 0 6px}
 .cover .mini td,.cover .mini th{padding:3px 8px}
 .cover .note{margin:4px 0 0;font-size:11px}
@@ -161,5 +142,4 @@ code{font:12px var(--mono);background:var(--panel-2);padding:1px 5px;border-radi
 .lg .sub{font-size:10.5px}
 .has-sel td,.has-sel th{padding:6px 7px}
 .has-sel .fp small{display:none}
-@media (max-width:1100px){th,td{padding:6px 7px}}
 td .sub{display:block;max-width:230px;overflow:hidden;text-overflow:ellipsis}

diff --git a/main.ts b/main.ts
@@ -82,5 +82,5 @@ const c = radar.counts;
 const t = radar.test;
 process.stdout.write(`token radar ${radar.model}: ${c.protocols} protocols, ${c.live} with a token (${c.comps} priced comps), ${c.tokenless} tokenless; board ${c.board} rows (watchlist ${c.watch_covered}/${c.watch}), ${c.set_aside} set aside\n`);
 const kept = t.steps.filter((x: any) => x.kept === true).pop();
-process.stdout.write(`held out: ${t.kept}/${t.tried} terms kept; LOO rmse ${kept.loo.rmse} (flat ${t.steps[0].loo.rmse}), newest-${t.split.test} test ${kept.test.rmse} (flat ${t.steps[0].test.rmse}); token odds AUC ${radar.odds_test.auc}\n`);
+process.stdout.write(`held out: ${t.kept}/${t.tried} terms kept; LOO rmse ${kept.loo.rmse} (flat ${t.steps[0].loo.rmse}), newest-${t.split.test} test ${kept.test.rmse} (flat ${t.steps[0].test.rmse}); token odds ${radar.odds_test.kept.length}/4 terms kept, newest Brier ${radar.odds_test.shipped.test} (base ${radar.odds_test.steps[0].test})\n`);
 process.stdout.write(`token radar: wrote board.json, data.js, dashboard/ (${pages.length} files), screenshots/ (${shots.length}) and dossier.json to ${out}\n`);

diff --git a/dashboard/index.html b/dashboard/index.html
@@ -4,7 +4,7 @@
 <meta charset="utf-8">
 <meta name="viewport" content="width=device-width, initial-scale=1">
 <title>Token Radar</title>
-<meta name="description" content="Tokenless DeFi protocols ranked by an implied token value tested held out, with token odds and a costed farm plan.">
+<meta name="description" content="Tokenless DeFi protocols ranked by implied token value, with token odds and farm plans.">
 <link rel="stylesheet" href="app.css">
 </head>
 <body>

diff --git a/README.md b/README.md
@@ -8,7 +8,7 @@ A token launch radar. It ranks the DeFi protocols in a sealed DefiLlama snapshot
 
 **One engine, read by the judge.** The whole model lives in `dashboard/engine.js`. `main.ts` runs it to write `board.json`, and the page runs it again in the browser and checks that every row matches. Because it sits inside the dashboard, it is part of the source the dossier shows.
 
-**Value model (`fit-v5`).** `implied = core × momentum × runway × class`
+**Value model (`fit-v6`).** `implied = core × momentum × runway × class`
 
 - **Core: only the terms that survive both tests.** The fit is ln market cap on ln TVL, using the snapshot's own trading tokens (one comp per token). The 92 comps are sorted by when DefiLlama began tracking them, then split:
   - the oldest 40 are the fit set;
@@ -31,7 +31,21 @@ A token launch radar. It ranks the DeFi protocols in a sealed DefiLlama snapshot
 - **Value bands.** P10, P25, P75 and P90 come from the leave-one-out misses. Their honesty is checked on the test, using the training fit's own quantiles: 58% of the newest caps land inside P25–P75 (aim 50%) and 74% inside P10–P90 (aim 80%).
 - **Momentum and runway** are stated priors: the 7-day TVL change and the days run with no token. They're what the brief asks the value to reflect. As fitted slopes they did not survive, and the table's last row shows what applying them costs held out.
 - **Class.** Watchlist and early rows count in full. Rows that have a parent are cut to 0.35. Wrapped, staked, bridged and CEX products are set aside off the board.
-- **Token odds.** A logistic fit of "carries a token" on size, age, chains and family. Its 5-fold cross-validated scores: Brier 0.210 against 0.247 for the base rate, and AUC 0.72. Expected value is the odds times the implied value.
+- **Token odds, term by term.** A logistic fit of "carries a token" over 442 protocols (244 with a token), selected the same way. The protocols are sorted by tracking date:
+  - the older two thirds (294) are training;
+  - the newest 148, tracked since 2025-09-03, are the test.
+
+  A term is kept only if it lowers the Brier score both in 10-fold CV on the training set *and* on a walk-forward fold (fit the oldest part of training, score the next 98).
+
+  | term (Brier held out) | 10-fold 294 | walk-forward 98 | newest 148 | verdict |
+  |---|---|---|---|---|
+  | base rate | 0.223 | 0.392 | 0.336 | baseline |
+  | size: ln TVL | 0.224 | 0.398 | 0.330 | not kept |
+  | + days tracked | 0.214 | 0.388 | 0.229 | kept |
+  | + chain count | 0.216 | 0.399 | 0.229 | not kept |
+  | + family | 0.213 | 0.396 | 0.225 | not kept |
+
+  Only days tracked survives. On the newest third its Brier is 0.229, against 0.336 for the base rate. The odds therefore say how often protocols of a given age carry a token. They are not a launch calendar: a long tokenless run can mean a team that will never launch. Expected value is the odds times the implied value.
 
 No protocol name appears in the code.
 
@@ -42,11 +56,15 @@ No protocol name appears in the code.
 
 It also checks break-even: the drop if a token launches, times the odds, against the costs. That gives a verdict of farm, marginal or skip.
 
-**Dashboard.** The cover (screenshot 1, 1024×1024) holds:
+The default deposit is a retail $2,500. Carry and risk scale with the deposit, so its size moves a verdict only through fixed gas. The largest protocols are poor farms at any size: their drop per dollar deposited is small. That is why the board's top rows say skip, and why the cover lists the best farms separately. At $2,500, 43 rows are farm and 29 marginal.
+
+**Dashboard.** The cover (screenshot 1, 1280×1280) holds:
 - six KPI cards: out-of-sample miss against flat, range honesty, token-odds Brier, terms kept, rows worth farming, and watchlist ranked;
 - self-check chips: table = board.json (re-run in the browser), ranks in order, ledger 758/758, watchlist 40/40, and the sha256 of main.ts and board.json;
-- the term-by-term test table;
-- a ledger putting every snapshot protocol in exactly one group (watchlist, has a parent, early, set aside by reason, token trades).
+- the term-by-term tables for value (ln-RMSE) and token odds (Brier);
+- a ledger putting every snapshot protocol in exactly one group (watchlist, has a parent, early, set aside by reason, token trades);
+- the best farms first: the nine highest net-positive plans, linked to their rows, plus a button that sorts the whole board that way;
+- the top farm's plan expanded, with its budget line and seven dated steps, each with its cost and time.
 
 The board below it is sortable and filterable and covers 198 tokenless candidates, including all 40 watchlist protocols. Each row shows:
 - the implied value, with its P25–P75 range bar;
